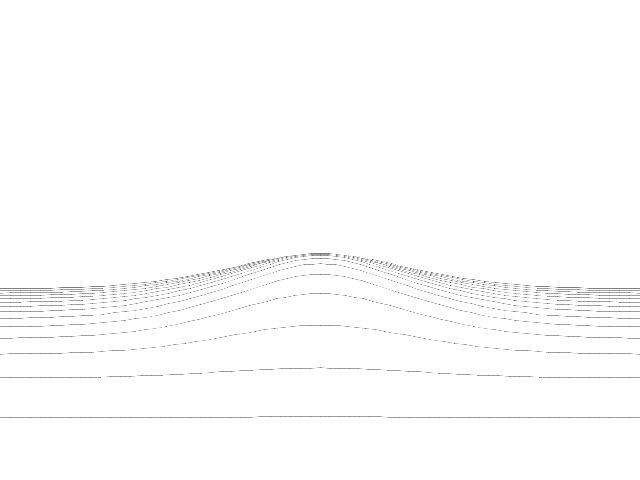
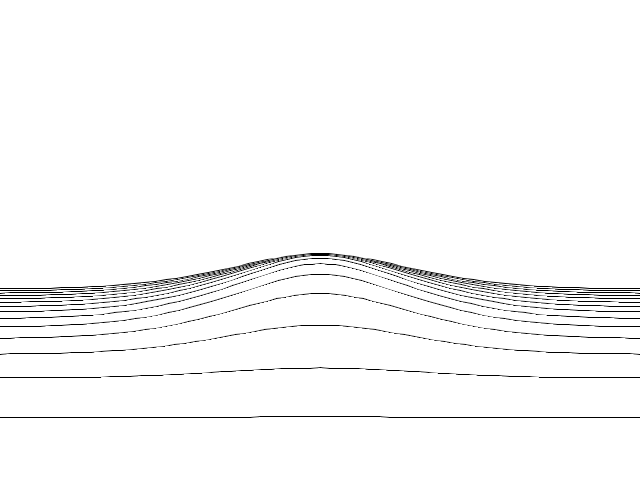
clearer lines

diff --git a/src/renderer.js b/src/renderer.js
@@ -84,12 +84,7 @@ function rgb(r, g, b) {
 // For debugging
 function draw_heightmap(canvas, w, h, camera, scene) {
   const ctx = canvas.getContext("2d");
-  if (ctx.transform.setMatrix) {
-    // pure image hack
-    ctx.transform.setMatrix([canvas.width/2, 0, 0, canvas.height/2, canvas.width/2, canvas.height/2]);
-  } else {
-    ctx.setTransform(canvas.width/2, 0, 0, canvas.height/2, canvas.width/2, canvas.height/2);
-  }
+  setTransform(ctx, canvas.width/2, 0, 0, canvas.height/2, canvas.width/2, canvas.height/2);
 
   for (var x = 0; x < w; x++) {
     for (var y = 0; y < w; y++) {
@@ -107,6 +102,15 @@ function draw_heightmap(canvas, w, h, camera, scene) {
   }
 }
 
+function setTransform(ctx, a, b, c, d, e, f) {
+  if (ctx.transform.setMatrix) {
+    // pure image hack
+    ctx.transform.setMatrix([a, b, c, d, e, f]);
+  } else {
+    ctx.setTransform(a, b, c, d, e, f);
+  }
+}
+
 // camera - camera matrix
 // scene - plane (e.g. y = 0) and height map function f(u, v)
 function render(canvas, camera, scene, options) {
@@ -114,15 +118,9 @@ function render(canvas, camera, scene, options) {
   const z_min = options.z ? options.z.min : -8;
   const z_max = options.z ? options.z.max : -1;
   const ctx = canvas.getContext("2d");
-  if (ctx.transform.setMatrix) {
-    // pure image hack
-    ctx.transform.setMatrix([canvas.width/2, 0, 0, canvas.height/2, canvas.width/2, canvas.height/2]);
-  } else {
-    ctx.setTransform(canvas.width/2, 0, 0, canvas.height/2, canvas.width/2, canvas.height/2);
-  }
   ctx.clearRect(-1, -1, 2, 2);
 
-  ctx.lineWidth = 2 / canvas.height;
+  //ctx.lineWidth = 2 / canvas.height;
   ctx.fillStyle = "white";
 
   for (var z = z_min; z < z_max; z += 0.5) {
@@ -172,6 +170,8 @@ function render(canvas, camera, scene, options) {
     ctx.beginPath();
 
     vec2.scaleAndAdd(plot, lineSegment.p0, up0, scene.heightmap(uv0));
+
+    setTransform(ctx, canvas.width/2, 0, 0, canvas.height/2, canvas.width/2, canvas.height/2);
     ctx.moveTo(plot[0], plot[1]);
 
     const n = 64;
@@ -183,7 +183,9 @@ function render(canvas, camera, scene, options) {
       vec2.scaleAndAdd(plot, p, up, scene.heightmap(uv));
       ctx.lineTo(plot[0], plot[1]);
     }
+    setTransform(ctx, 1, 0, 0, 1, 0, 0);
     ctx.stroke();
+    setTransform(ctx, canvas.width/2, 0, 0, canvas.height/2, canvas.width/2, canvas.height/2);
     ctx.lineTo(1, 1);
     ctx.lineTo(-1, 1);
     ctx.closePath();
